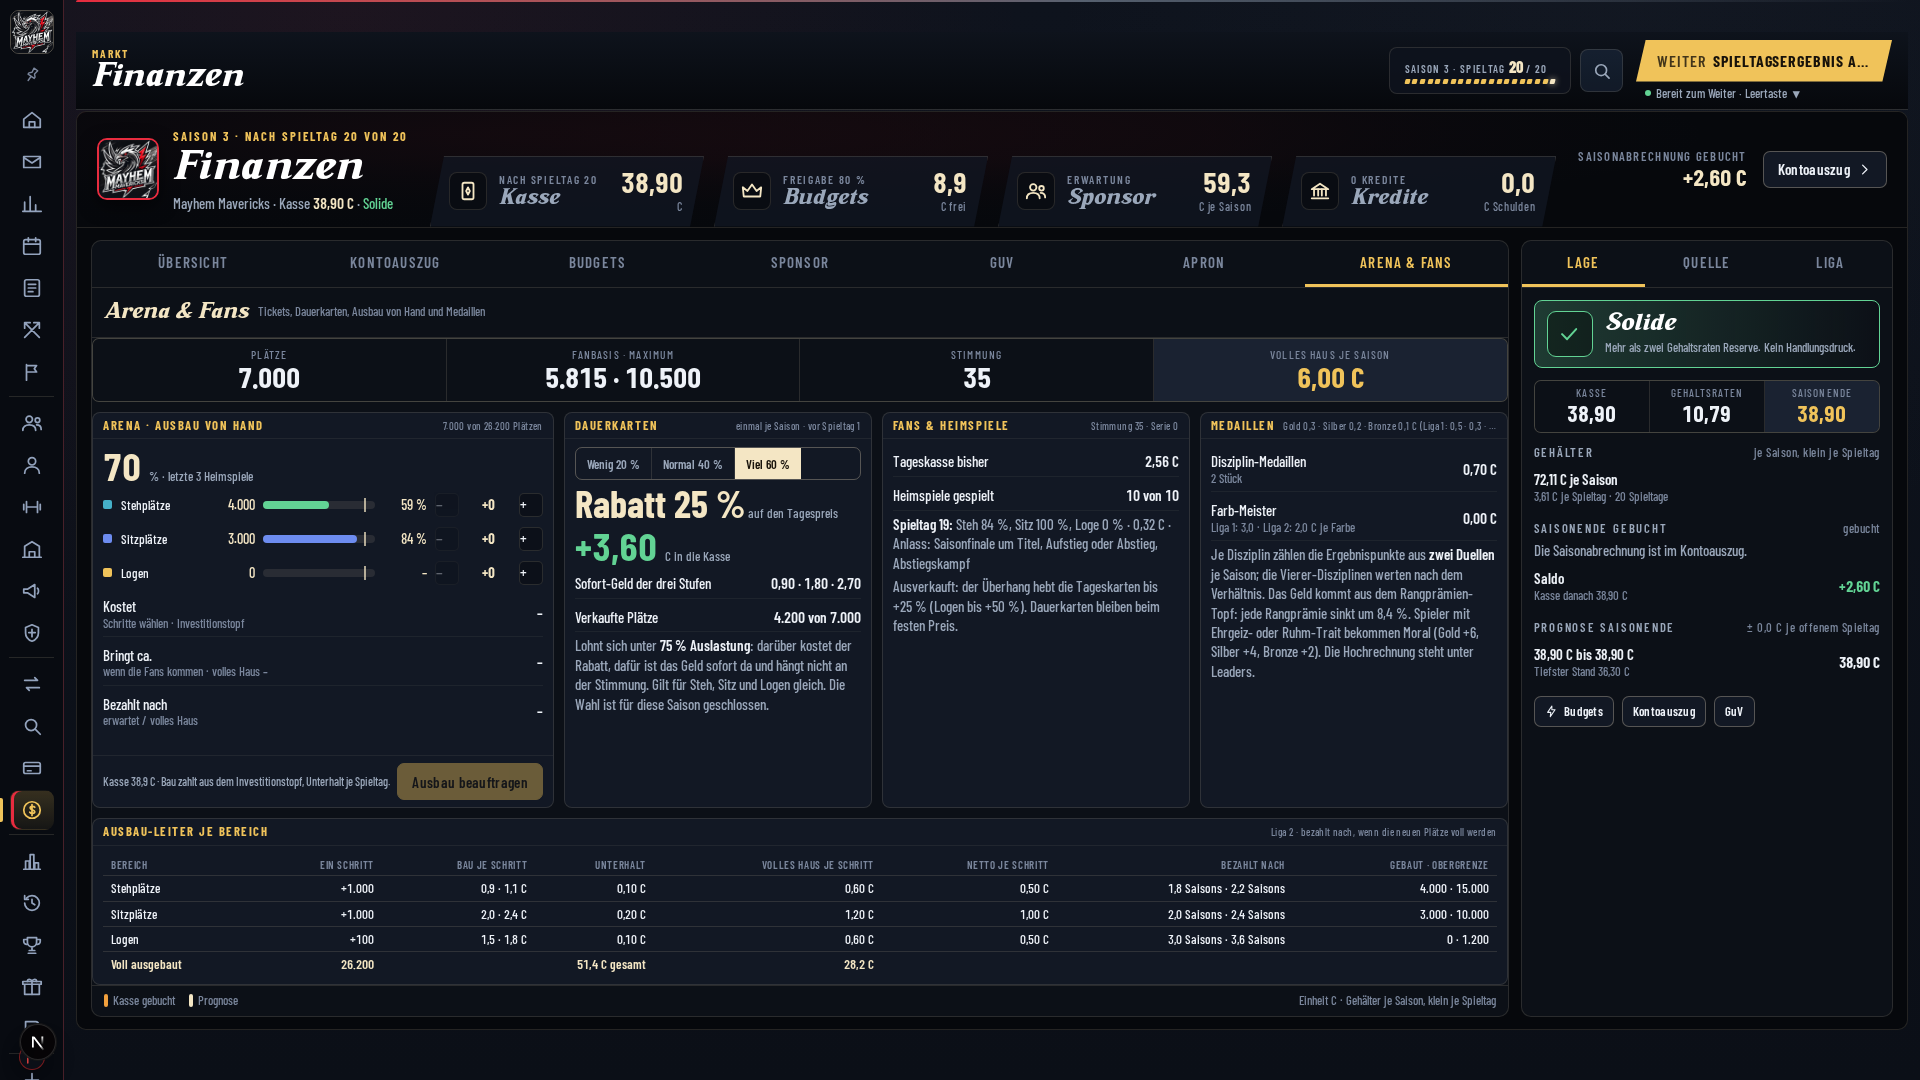
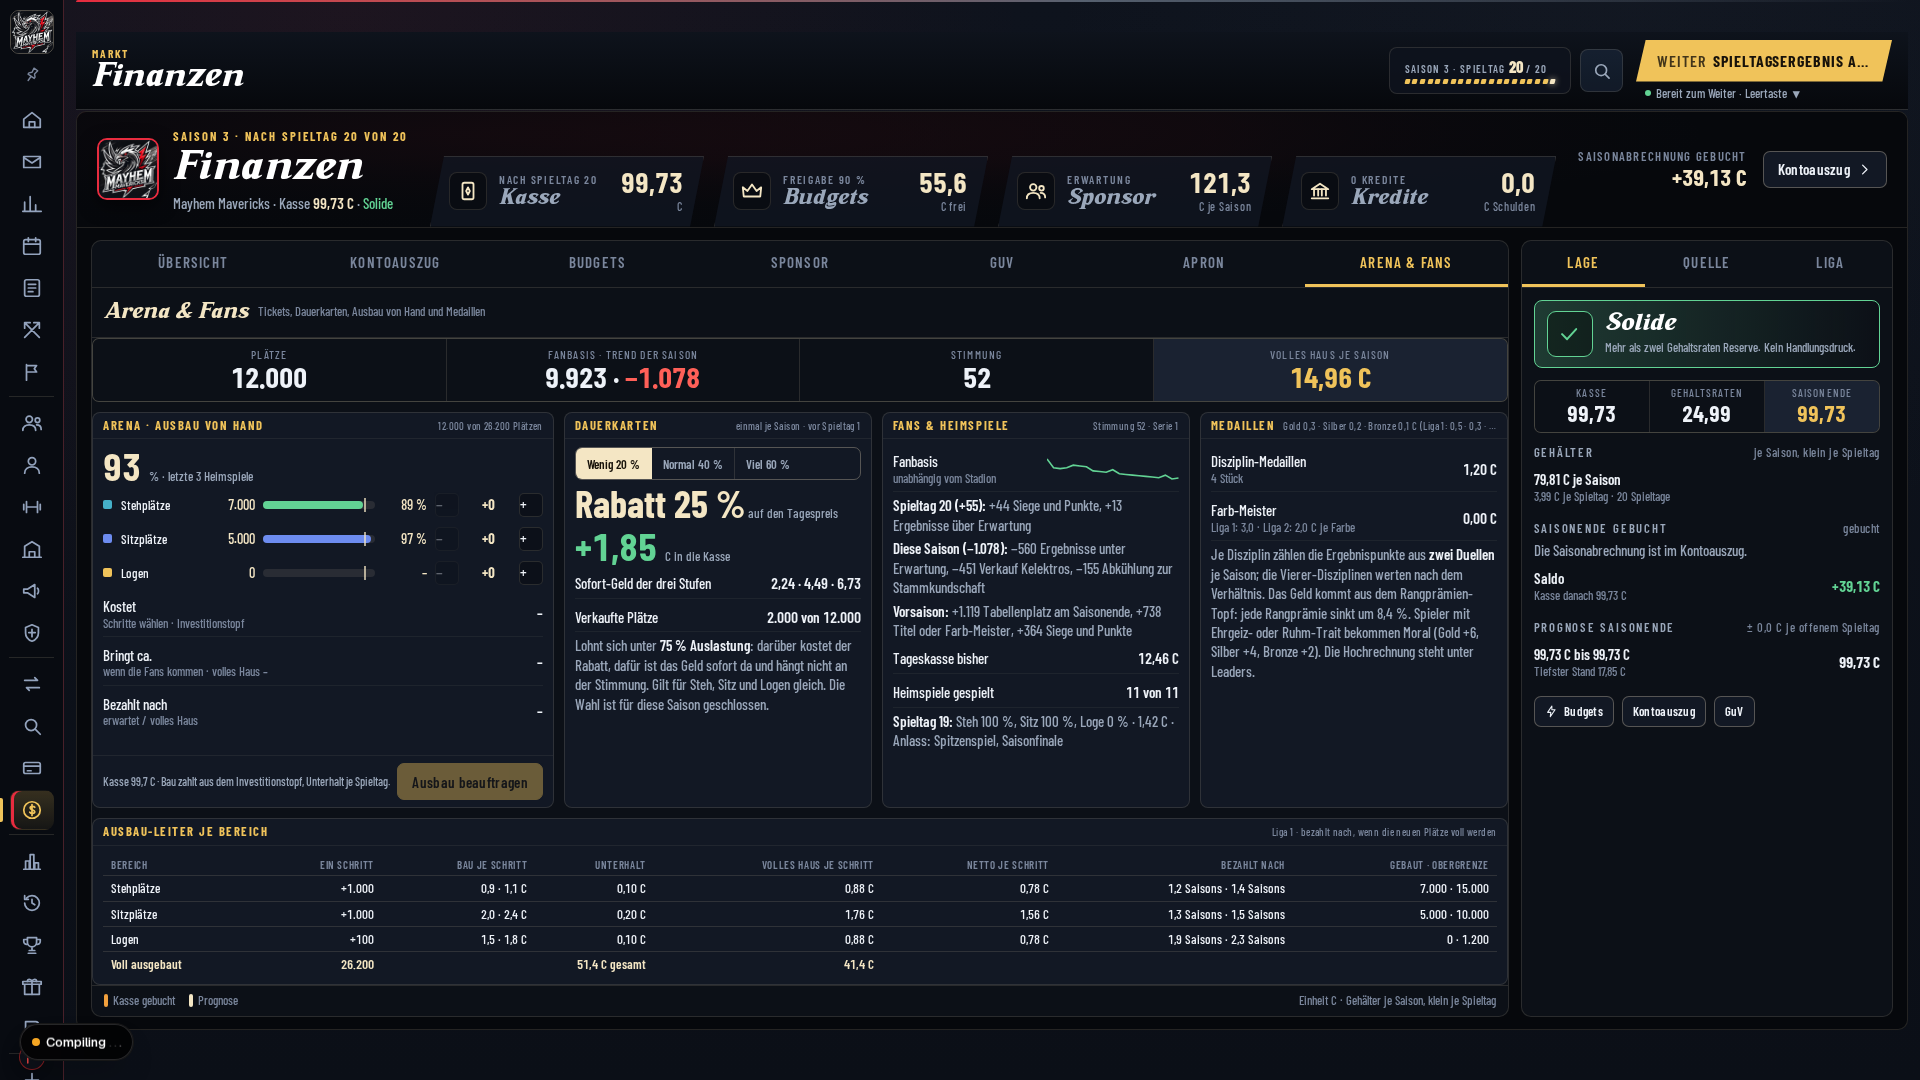
Fan-Modell: Doku mit Regeln, Start-Tabelle und Messung (3 Laeufe), Aufnahmen, Karte Fans mit Gruenden gekuerzt
Claude-Session: https://claude.ai/code/session_01UYLNtXkprKr1XK4c3X2xQq

diff --git a/app/foundation/finances/ArenaAnsicht.tsx b/app/foundation/finances/ArenaAnsicht.tsx
@@ -228,8 +228,8 @@ export default function ArenaAnsicht({ gameState, teamId, onAktion, kannSchreibe
             {fanLetzte ? (
               <div className="fin-txt"><b>{fanLetzte.tag === 0 ? "Saisonwechsel" : `Spieltag ${fanLetzte.tag}`} ({vz(fanLetzte.delta)}):</b> {gruendeText(fanLetzte.gruende.map((g) => ({ ...g })), 4)}</div>
             ) : null}
-            <div className="fin-txt"><b>Diese Saison ({vz(fanSaisonDelta)}):</b> {gruendeText(stand.fanBilanz)}</div>
-            {stand.fanBilanzVorsaison ? <div className="fin-txt"><b>Vorsaison:</b> {gruendeText(stand.fanBilanzVorsaison)}</div> : null}
+            <div className="fin-txt"><b>Diese Saison ({vz(fanSaisonDelta)}):</b> {gruendeText(stand.fanBilanz, 3)}</div>
+            {stand.fanBilanzVorsaison ? <div className="fin-txt"><b>Vorsaison:</b> {gruendeText(stand.fanBilanzVorsaison, 3)}</div> : null}
             <div className="fin-rek"><span>Tageskasse bisher</span><b className="bc-t plus">{C(stand.heimspiele.reduce((s, h) => s + h.tickets, 0))}</b></div>
             <div className="fin-rek"><span>Heimspiele gespielt</span><b className="bc-t">{stand.heimspiele.length} von {heim}</b></div>
             {letztes ? (
@@ -238,7 +238,6 @@ export default function ArenaAnsicht({ gameState, teamId, onAktion, kannSchreibe
             ) : (
               <div className="fin-txt">Noch kein Heimspiel gebucht. Die Nachfrage folgt der Fanbasis, der Stimmung und dem Anlass des Spiels (Derby, Spitzenspiel, Unwetter …).</div>
             )}
-            <div className="fin-txt">Ausverkauft: der Überhang hebt die Tageskarten bis +25 % (Logen bis +50 %). Dauerkarten bleiben beim festen Preis.</div>
           </div>
         </section>
 

diff --git a/scripts/auswerte-arena-start-stadion.ts b/scripts/auswerte-arena-start-stadion.ts
@@ -1,0 +1,21 @@
+/**
+ * START-STADION UND START-FANS JE TEAM (23.11., Fan-Modell organisch): liest einen frisch angelegten Messlauf-Spielstand
+ * (`scripts/miss-teamfinanzen-saison.ts --nur-anlage --keep`, Wegwerf-SQLite) und zeigt je Team Liga, Matrix-Beliebtheit, Budget und das
+ * Start-Stadion samt Start-Fanbasis (`neuerArenaStand`). OLY_APP_SQLITE_PATH=<Kopie> npx tsx scripts/auswerte-arena-start-stadion.ts <saveId>
+ */
+import { neuerArenaStand } from "@/lib/arena/arena-stand";
+import { createPersistenceService } from "@/lib/persistence/persistence-service";
+
+const saveId = process.argv[2];
+const save = saveId ? createPersistenceService().getSaveById(saveId) : null;
+if (!save) throw new Error("Aufruf: auswerte-arena-start-stadion.ts <saveId>");
+const gs = save.gameState;
+console.log("Team | Liga | Beliebtheit (Matrix) | Budget | Start-Plaetze | Start-Fanbasis");
+const zeilen = gs.teams.map((t) => {
+  const h = neuerArenaStand(gs, t.teamId);
+  const pop = gs.teamIdentities?.find((i) => i.teamId === t.teamId)?.popularity ?? 0;
+  const pl = h.plaetze.steh + h.plaetze.sitz + h.plaetze.loge;
+  return { id: t.teamId, liga: gs.seasonState.leagueByTeamId?.[t.teamId] ?? "-", pop, budget: t.budget, pl, fans: h.fanbasis };
+});
+zeilen.sort((a, b) => b.pl - a.pl || b.fans - a.fans);
+for (const z of zeilen) console.log(`${z.id} | ${z.liga} | ${z.pop} | ${z.budget} | ${z.pl} | ${z.fans}`);

diff --git a/scripts/screenshot-arena-bau.ts b/scripts/screenshot-arena-bau.ts
@@ -141,8 +141,8 @@ async function main() {
       await p.locator('[data-testid^="mk-zeile-"]').nth(1).click().catch(() => undefined);
     };
     const planen = (steh: number, sitz: number, loge: number) => async (p: Page) => {
-      await p.getByRole("tab", { name: /Arena/ }).first().click().catch(() => undefined);
-      await p.waitForTimeout(500);
+      await p.getByRole("tab", { name: /Arena/i }).first().click({ timeout: 60_000 }).catch(() => undefined);
+      await p.waitForTimeout(1500);
       const klick = async (name: string, n: number) => { for (let i = 0; i < n; i += 1) await p.getByRole("button", { name }).first().click().catch(() => undefined); };
       await klick("Stehplätze mehr", steh);
       await klick("Sitzplätze mehr", sitz);

diff --git a/docs/design/arena-tickets-medaillen-22-11.md b/docs/design/arena-tickets-medaillen-22-11.md
@@ -152,3 +152,90 @@ Stichprobe über mehrere Disziplinen entfällt: die Seite ist teamweit, nicht je
 | Ticketpreis-Stufen, Merch, Verletzungs-Versicherung, Trainingslager, Kredite | nicht Teil dieses Baus |
 
 Offen nach der Aufnahme: der Rabatt-Hinweis der Dauerkarten ist nach den Aufnahmen von einer leeren Marke auf Klartext umgestellt worden und nicht neu aufgenommen.
+
+
+## Fan-Modell organisch (Chris 23.11.)
+
+Chris: „12k Plätze war geplant, 12 % Einnahmen ca. Und Fans sollen organisch wachsen oder auch mal weniger werden nach Leistung des Teams, Kauf und Verkauf von Stars — die Anzahl Fans hängt nicht an der Stadiongröße! Starke Teams vielleicht schon etwas größere Stadien, aber ungern 1:1 nach Budget.“
+
+### Regeln (Code: `lib/arena/fan-modell.ts`, Buchung `lib/arena/arena-stand.ts`)
+
+- **Fanbasis hängt nicht am Stadion.** Fan-Maximum (1,5 × Plätze) und das Wachstum nach Auslastung sind entfernt. Das Stadion begrenzt nur die verkauften Tickets; die Nachfrage bleibt Fanbasis × (0,45 + 0,90 × Stimmung / 100).
+- **Je Spieltag (kleine Schritte, alle Teams, Heim und Auswärts):** Tabellenpunkte gegen die Erwartung aus der Kaderstärke (Rang der besten sechs nach Rating, 1,3 bis 2,7 erwartete Punkte), Punkte über/unter dem Schnitt von 2, Serien ab drei (± 0,4 %), Rückzug zum Anker (1,1 % der Lücke je Spieltag).
+- **Stars:** der Kader von heute wird mit dem gemerkten verglichen (derselbe Weg für Kauf, Verkauf und Vertragsende, Mensch und KI). Stern-Gewicht = ((Marketability − 30) / 70)² × (0,5 + 0,5 × Leistungsperzentil), Wirkung ± Gewicht × 1.200 Fans (Spitzenspieler etwa ± 500). Weniger als 0,05 zählt nicht.
+- **Saisonende (größerer Schritt):** Tabellenplatz (± 14 %), Platz gegen Erwartung (± 12 %), Titel oder Farb-Meister (+ 8 %), Aufstieg (+ 8 %), Abstieg (− 8 %). Der Anker folgt der Fanbasis zu 40 %.
+- **Schranke:** je Saison höchstens − 15 % bis + 30 % des Saisonstarts (gezeigt = gebucht, die Gründe werden anteilig gekappt).
+- **Start (neues Spiel):** 6.500 × (½ Beliebtheits-KPI + ½ Matrix-Beliebtheit `popularity` × 0,12 + 0,45). Bestehender Spielstand: Umstieg wie bisher (halbes Haus × Beliebtheit).
+- **Start-Stadion:** Grundarena 4.000 für alle plus 0 bis 3 Schritte à 1.000 (Steh, Sitz, Steh) aus der Mischung 60 % Matrix-Beliebtheit (auf 0..1), 25 % Liga 1, nur 15 % Budget (Rang). Spannweite 4.000 bis 7.000. Starke Teams starten etwas größer, müssen aber weiter bauen; reich allein macht das Stadion nicht größer.
+- **KI:** prognostiziert den Fan-Trend (`fanPrognoseFaktor`: Änderung der Saison hochgerechnet, vor Spieltag 5 die der Vorsaison, × 0,7, begrenzt) statt der Auslastung; Überhang, Bewertung und Kosten wie für den Menschen (`bauArenaAus`).
+- **Anzeige:** Seite „Arena & Fans“ zeigt Fanbasis und Trend der Saison, die Fanlinie je Spieltag und die Gründe (letzte Änderung, Saison, Vorsaison), z. B. „+ 44 Siege und Punkte, + 13 Ergebnisse über Erwartung“, „− 451 Verkauf Kelektros“.
+- Regel-Stempel unverändert (`seasonState.arenaRegel`, Rückweg `OLY_ARENA`); neue Felder am Arena-Stand sind optional (Alt-Stände legen sie beim ersten Buchen an: Anker = Fanbasis, Kader ohne Wirkung).
+
+### Start-Stadion und Start-Fanbasis je Team (Messlauf-Anlage, `scripts/auswerte-arena-start-stadion.ts`)
+
+| Team | Liga | Beliebtheit (Matrix) | Budget | Start-Plätze | Start-Fanbasis |
+|---|---|---:|---:|---:|---:|
+| M-M | liga1 | 7.08 | 325 | 7000 | 8286 |
+| M-S | liga2 | 8.29 | 245 | 6000 | 8758 |
+| D-P | liga2 | 8.3 | 240 | 6000 | 8710 |
+| R-C | liga2 | 7.42 | 220 | 6000 | 8157 |
+| C-S | liga1 | 6.88 | 315 | 6000 | 8103 |
+| B-P | liga1 | 7.88 | 275 | 6000 | 8074 |
+| C-C | liga2 | 6.94 | 215 | 6000 | 7917 |
+| G-G | liga1 | 6.5 | 310 | 6000 | 7903 |
+| P-C | liga2 | 7.28 | 200 | 6000 | 7892 |
+| T-C | liga2 | 6.92 | 210 | 6000 | 7857 |
+| H-R | liga1 | 6.9 | 285 | 6000 | 7797 |
+| N-W | liga1 | 6.14 | 265 | 6000 | 7291 |
+| S-S | liga1 | 5.43 | 280 | 6000 | 7171 |
+| R-L | liga1 | 4.94 | 295 | 6000 | 7137 |
+| T-T | liga1 | 5.77 | 260 | 6000 | 7094 |
+| Z-H | liga1 | 4.06 | 320 | 6000 | 7056 |
+| V-D | liga1 | 5.8 | 250 | 6000 | 7001 |
+| W-L | liga1 | 4.66 | 290 | 6000 | 6975 |
+| L-R | liga1 | 4.04 | 305 | 6000 | 6891 |
+| P-S | liga1 | 4.03 | 300 | 6000 | 6737 |
+| L-K | liga2 | 6.07 | 225 | 5000 | 7683 |
+| V-W | liga2 | 7.23 | 180 | 5000 | 7663 |
+| S-C | liga2 | 6.53 | 205 | 5000 | 7652 |
+| R-R | liga2 | 7.04 | 170 | 5000 | 7484 |
+| V-V | liga2 | 4.76 | 235 | 5000 | 7276 |
+| B-B | liga2 | 5.96 | 185 | 5000 | 7221 |
+| T-G | liga2 | 3.24 | 230 | 5000 | 6631 |
+| U-A | liga2 | 4 | 190 | 5000 | 6508 |
+| D-L | liga2 | 3.82 | 195 | 5000 | 6491 |
+| N-N | liga1 | 2.96 | 270 | 5000 | 6103 |
+| W-W | liga1 | 2.9 | 255 | 5000 | 5922 |
+| A-A | liga2 | 2.84 | 175 | 4000 | 5899 |
+
+### Messung (32 KI-Teams von Anfang an, 3 Saisons, `scripts/auswerte-arena-ki-saisons.ts`)
+
+Drei Läufe: **F2** mit den Konstanten vor dem letzten Feinschliff (Ergebnisschritte 0,35 %, Platz 12 %), **F3** und **F4** mit den endgültigen (zwei Saaten). Lauf 1 (Start 5.000, Nachfrage 0,30 + 0,85) brach in Saison 2 ab (Speicherdruck); nach Saison 1 stand die Spitze bei 6.200 bis 6.900 Fans und 6.250 Plätzen: Anlass für Start 6.500 und Nachfrage 0,45 + 0,90.
+
+| Saison | Lauf | Plätze Ø L1 | Plätze Top-4 L1 | Top-4 L1 Fans | Ticket-Anteil Top-4 / alle | Teams GuV ≥ 0 | GuV-Abstand reich 8 − arm 8 | Kasse < 0 |
+|---|---|---:|---:|---:|---:|---:|---:|---:|
+| 1 | F2 | 7.813 | 10.250 | 8.633 | 8 % / 8 % | 27 | 14,1 | 0 |
+| 1 | F3 | 8.188 | 9.250 | 8.602 | 7 % / 8 % | 28 | 12,7 | 0 |
+| 1 | F4 | 7.375 | 8.750 | 8.049 | 8 % / 8 % | 27 | 10,0 | 0 |
+| 2 | F2 | 8.563 | 11.250 | 10.197 | 9 % / 8 % | 31 | 2,5 | 0 |
+| 2 | F3 | 8.000 | 10.500 | 9.679 | 10 % / 7 % | 31 | 0,1 | 0 |
+| 2 | F4 | 8.625 | 11.750 | 10.221 | 10 % / 8 % | 30 | 0,9 | 1 |
+| 3 | F2 | 10.000 | 10.250 | 11.691 | 11 % / 9 % | 32 | 9,0 | 0 |
+| 3 | F3 | 8.875 | 11.250 | 11.094 | 8 % / 8 % | 32 | 12,1 | 0 |
+| 3 | F4 | 9.563 | 13.250 | 12.097 | 9 % / 8 % | 31 | 9,3 | 0 |
+
+Endgültige Konstanten (F3, F4), Saison 3: Top-4 Liga 1 im Mittel **12.250 Plätze** (Ziel um 12.000, Spanne 10–14k: erreicht), Fans 11.100 bis 12.100, Liga-1-Schnitt 8.900 bis 9.600 Plätze (niedriger als die Spitze). Teams mit Kasse < 0: höchstens eins (Saison 2, F4). GuV-Abstand 9 bis 12 in Saison 3, 0,1 bis 2,5 in Saison 2: im Rahmen der Tabelle aus #1719 (− 9,5 bis 17,6). Die Fanbasis wächst und schrumpft (Spanne nach Saison 3: 4.200 bis 12.800; die Liga-Schere zwischen Spitze und Ende öffnet sich), Plätze folgen den Fans.
+
+### Abweichungen und offene Entscheidung
+
+- **Ticket-Anteil der Spitze erreicht das Ziel 12 % (10–14 %) nicht:** 8 bis 11 % nach Saison 3 (Mittel F3/F4 8,5 %), Liga-Schnitt 8 %. Bei den festen Preisen aus g.2 bringen 12.000 Plätze rund 13 C je Saison gegen 140 C Gesamteinnahmen; 12 % wären erst bei etwa 17.000 Plätzen oder rund 30 % höheren Preisen erreicht. Die Preise (`PREIS_JE_1000`) sind Teil des freigegebenen Konzepts und hier **nicht** geändert. **Entscheidung für Chris/PM:** Ticketpreise × 1,3 (eine Konstante); das verkürzt auch die Amortisation und lässt die KI mehr bauen, müsste neu gemessen werden.
+- Erwartung aus der Kaderstärke (Rang der besten sechs nach Rating), nicht `computeTeamExpectation` des Vorstands (braucht die schweren Snapshot-Zeilen je Spieltag).
+- Medaillen zählen nicht eigens in den Fans; „Titel oder Farb-Meister“ (aus `teamErfolgAusSnapshot`) schon. Kein Stimmungs-Malus bei sehr leerem Stadion.
+- Start-Fanbasis: Matrix-Beliebtheit zur Hälfte beigemischt (Chris: „Beliebtheit/Tradition aus der Matrix“), Basis 6.500 statt 5.000.
+- Stern-Gewichte werden zu Saisonbeginn aufgefrischt, sonst gilt das Gewicht beim Zugang (Verkauf kostet, was der Spieler beim Kauf oder zum Saisonstart wert war).
+- Zwei Saaten gleichzeitig gelaufen; F2 ist die Saat mit den Konstanten vor dem Feinschliff.
+
+### Prüfungen und Aufnahmen
+
+- `npx tsc -p tsconfig.check.json --noEmit` sauber; `tests/arena-tickets-medaillen.test.ts` (26, davon fünf neue für das Fan-Modell).
+- Aufnahmen: `docs/design/arena-tickets-medaillen-22-11/app-arena-leer-1920x1080.png` und `-2560x1440.png` (Messlauf-Spielstand F3, Saison 3 nach Spieltag 20, Seitenscroll 0, keine JS-Fehler); die Karte „Fans & Heimspiele“ zeigt Fanlinie und Gründe, die abgeschnittene Zeile „Ausverkauft“ ist entfallen.
